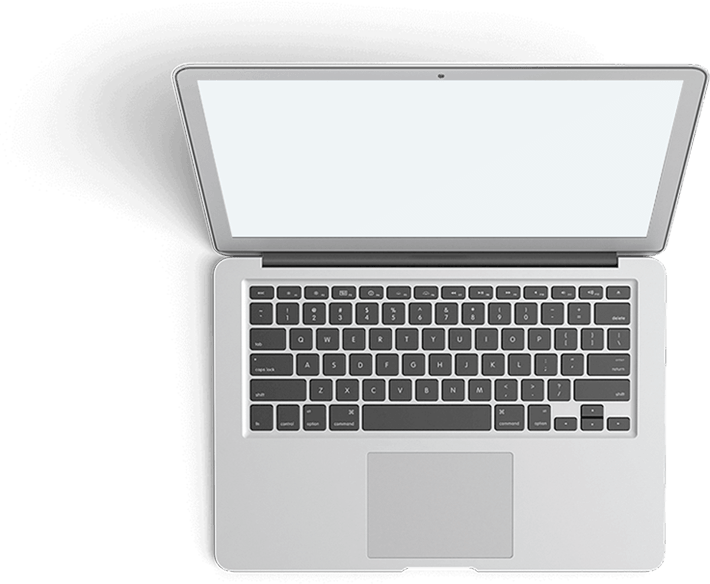
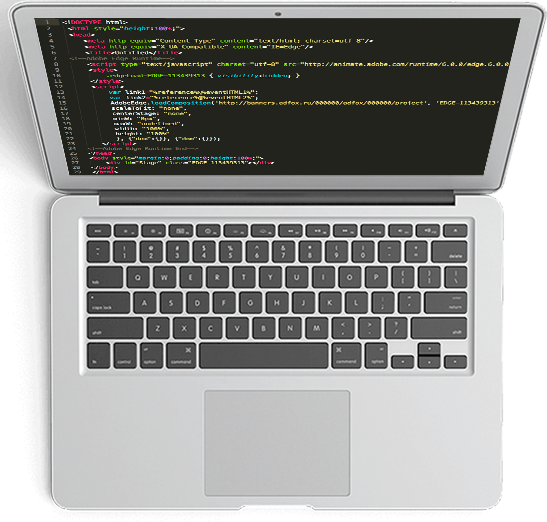
Last day on windows

diff --git a/app/css/style.css b/app/css/style.css
@@ -72,7 +72,10 @@ svg.svg-slack {
     -webkit-box-align: stretch;
     -webkit-align-items: stretch;
         -ms-flex-align: stretch;
-            align-items: stretch; }
+            align-items: stretch;
+    -webkit-flex-wrap: wrap;
+        -ms-flex-wrap: wrap;
+            flex-wrap: wrap; }
   .container__col {
     display: -webkit-flex;
     display: -moz-flex;
@@ -295,10 +298,25 @@ svg.svg-slack {
   -webkit-background-size: cover;
           background-size: cover;
   padding: 5.6em 0;
-  overflow: hidden; }
+  overflow: hidden;
+  background-color: #eee; }
+  .main .container__wrap {
+    -webkit-box-align: start;
+    -webkit-align-items: flex-start;
+        -ms-flex-align: start;
+            align-items: flex-start; }
+  .main-macbook {
+    top: 0;
+    left: 0;
+    max-width: -webkit-calc(100% - 460px);
+    max-width: calc(100% - 460px);
+    height: auto;
+    display: block;
+    z-index: 10000; }
   .main-content {
     text-align: right;
-    color: #fff; }
+    color: #fff;
+    max-width: 440px; }
     .main-content > .container-col {
       -webkit-box-align: end;
       -webkit-align-items: flex-end;
@@ -346,8 +364,9 @@ svg.svg-slack {
     .main-content__background-mob {
       display: none; }
   .main .feedback {
-    padding: 4em 0 0 4.5em;
-    margin: 0; }
+    width: auto;
+    margin: 0 0 0 auto;
+    padding-top: 0; }
 
 .promo {
   background-color: #c7eeff;
@@ -500,9 +519,9 @@ svg.svg-slack {
       background-color: transparent; }
       .contacts__form-item:focus {
         border-bottom: 5px solid #0077c0;
-        -webkit-transition: all 0.5s;
-        -o-transition: all 0.5s;
-        transition: all 0.5s; }
+        -webkit-transition: all 0.2s;
+        -o-transition: all 0.2s;
+        transition: all 0.2s; }
       .contacts__form-item:invalid {
         -webkit-box-shadow: none;
                 box-shadow: none;
@@ -533,6 +552,11 @@ svg.svg-slack {
       padding: 10px 20px; }
       .contacts__form .container__col:last-child {
         width: 100%; }
+      .contacts__form .container__col:nth-child(2) {
+        -webkit-box-pack: start;
+        -webkit-justify-content: flex-start;
+            -ms-flex-pack: start;
+                justify-content: flex-start; }
     .contacts__form-feedback {
       width: 45%;
       padding: 5px 10px; }
@@ -753,8 +777,14 @@ svg.svg-slack {
     z-index: 2; }
     .main-content__background-mob.is-active {
       display: block; }
+  .main-macbook {
+    top: 0%;
+    right: 150%; }
+    .main-macbook img {
+      width: 240px;
+      height: 210px; }
   .main .feedback {
-    padding: 0; }
+    margin: 0 auto; }
     .main .feedback__link {
       width: 16%; } }
 
@@ -774,6 +804,38 @@ svg.svg-slack {
 
 .contacts .por {
   height: 4em; }
+
+.dots {
+  display: -webkit-flex;
+  display: -ms-flex;
+  display: -webkit-box;
+  display: -ms-flexbox;
+  display: flex;
+  -webkit-box-orient: horizontal;
+  -webkit-box-direction: normal;
+  -webkit-flex-direction: row;
+      -ms-flex-direction: row;
+          flex-direction: row;
+  -webkit-box-pack: center;
+  -webkit-justify-content: center;
+      -ms-flex-pack: center;
+          justify-content: center;
+  -webkit-box-align: stretch;
+  -webkit-align-items: stretch;
+      -ms-flex-align: stretch;
+          align-items: stretch;
+  -webkit-flex-wrap: wrap;
+      -ms-flex-wrap: wrap;
+          flex-wrap: wrap;
+  margin: 0 auto; }
+  .dots button {
+    border: none;
+    background-color: transparent;
+    font-size: 20px;
+    color: #1d242b;
+    padding: 5px 7px; }
+    .dots button:hover {
+      color: #0077c0; }
 
 textarea {
   max-width: 250px;

diff --git a/app/index.html b/app/index.html
@@ -22,8 +22,8 @@
  </header>
  <main>
   <div class="main">
-   <div class="container container__col">
-    <div class="main-content pseudo pseudo-macbook">
+   <div class="container container__wrap">         <img class="main-macbook" src="img/macbook.png" alt="">
+    <div class="main-content">
      <div class="container__col">
       <h1 class="main-content__title">Front-end разработчик</h1>
       <h1 class="main-content__title-mob">Front-end</br> разработчик</h1>
@@ -212,8 +212,12 @@
        <div class="container container__col"><img class="portfolio-image" src="img/slowave.jpg"></div>
       </div>
      </div>
+     <div class="dots">
+      <button class="dots__item" data-number="1">#1</button>
+      <button class="dots__item" data-number="2">#2</button>
+      <button class="dots__item" data-number="3">#3</button>
+     </div>
      <div class="portfolio__descr-slider portfolio__descr-slider-b"><a class="portfolio-link" href="#1">Смотреть</a><a class="portfolio-link" href="#2">Смотреть</a><a class="portfolio-link" href="#3">Смотреть</a></div>
-     <div class="dots"></div>
     </div>
    </div>
   </div>

diff --git a/app/js/script.js b/app/js/script.js
@@ -10,7 +10,7 @@ $('.review-slider').slick({
 });
 
 $('.portfolio-slider').slick({
-    dots: true,
+    dots: false,
     infinite: true,
     speed: 1500,
     slidesToShow: 1,
@@ -18,8 +18,7 @@ $('.portfolio-slider').slick({
     arrows: false,
     asNavFor: '.portfolio__descr-slider',
     autoplay: true,
-    autoplaySpeed: 2000,
-    appendDots: '.dots'
+    autoplaySpeed: 2000
 });
 
 $('.portfolio__descr-slider').slick({
@@ -31,6 +30,13 @@ $('.portfolio__descr-slider').slick({
     asNavFor: '.portfolio-slider',
     dots: false,
     draggable: false
+});
+
+$(document).ready(function (){
+  $(".dots__item").on("click", function(){
+    var data_number = $(this).attr('data-number')
+    $(".portfolio-slider").slick('slickGoTo', data_number)
+  });
 });
 
 $(document).ready(function (){

diff --git a/app/sass/blocks/main.sass b/app/sass/blocks/main.sass
@@ -4,9 +4,20 @@
 	background-size: cover
 	padding: 5.6em 0
 	overflow: hidden
+	background-color: #eee
+	& .container__wrap
+		align-items: flex-start
+	&-macbook
+		top: 0
+		left: 0
+		max-width: calc(100% - 460px)
+		height: auto
+		display: block
+		z-index: 10000
 	&-content
 		text-align: right
 		color: #fff
+		max-width: 440px
 		& > .container-col
 			align-items: flex-end
 		&__title
@@ -52,5 +63,6 @@
 			&-mob
 				display: none
 	& .feedback
-		padding: 4em 0 0 4.5em
-		margin: 0
+      width: auto
+      margin: 0 0 0 auto
+      padding-top: 0

diff --git a/app/sass/style.sass b/app/sass/style.sass
@@ -30,6 +30,24 @@
 .contacts .por
 	height: 4em
 
+.dots
+	display: -webkit-flex
+	display: -ms-flex
+	display: flex
+	flex-direction: row
+	justify-content: center
+	align-items: stretch
+	flex-wrap: wrap
+	margin: 0 auto
+	& button
+		border: none
+		background-color: transparent
+		font-size: 20px
+		color: $textColor
+		padding: 5px 7px
+		&:hover
+			color: $activeColor
+
 textarea
 	max-width: 250px
 	max-height: 100px

diff --git a/app/sass/blocks/contacts.sass b/app/sass/blocks/contacts.sass
@@ -29,7 +29,7 @@
 			background-color: rgba(0,0,0,0.0)
 			&:focus
 				border-bottom: 5px solid  $activeColor
-				transition: all 0.5s
+				transition: all 0.2s
 			&:invalid
 				box-shadow: none
 				border-bottom: 5px solid  #ff5f5f
@@ -59,6 +59,8 @@
 				padding: 10px 20px
 				&:last-child
 					width: 100%
+				&:nth-child(2)
+					justify-content: flex-start
 		&-feedback
 			width: 45%
 			padding: 5px 10px

diff --git a/app/sass/common/media.sass b/app/sass/common/media.sass
@@ -186,8 +186,14 @@
           z-index: 2
           &.is-active
             display: block
+    &-macbook
+      top: 0%
+      right: 150%
+      & img
+        width: 240px
+        height: 210px
     & .feedback
-      padding: 0
+      margin: 0 auto
       &__link
         width: 16%
 

diff --git a/app/sass/common/containers.sass b/app/sass/common/containers.sass
@@ -10,6 +10,7 @@
         flex-direction: row
         justify-content: space-between
         align-items: stretch
+        flex-wrap: wrap
     &__col
         display: -webkit-flex
         display: -moz-flex
